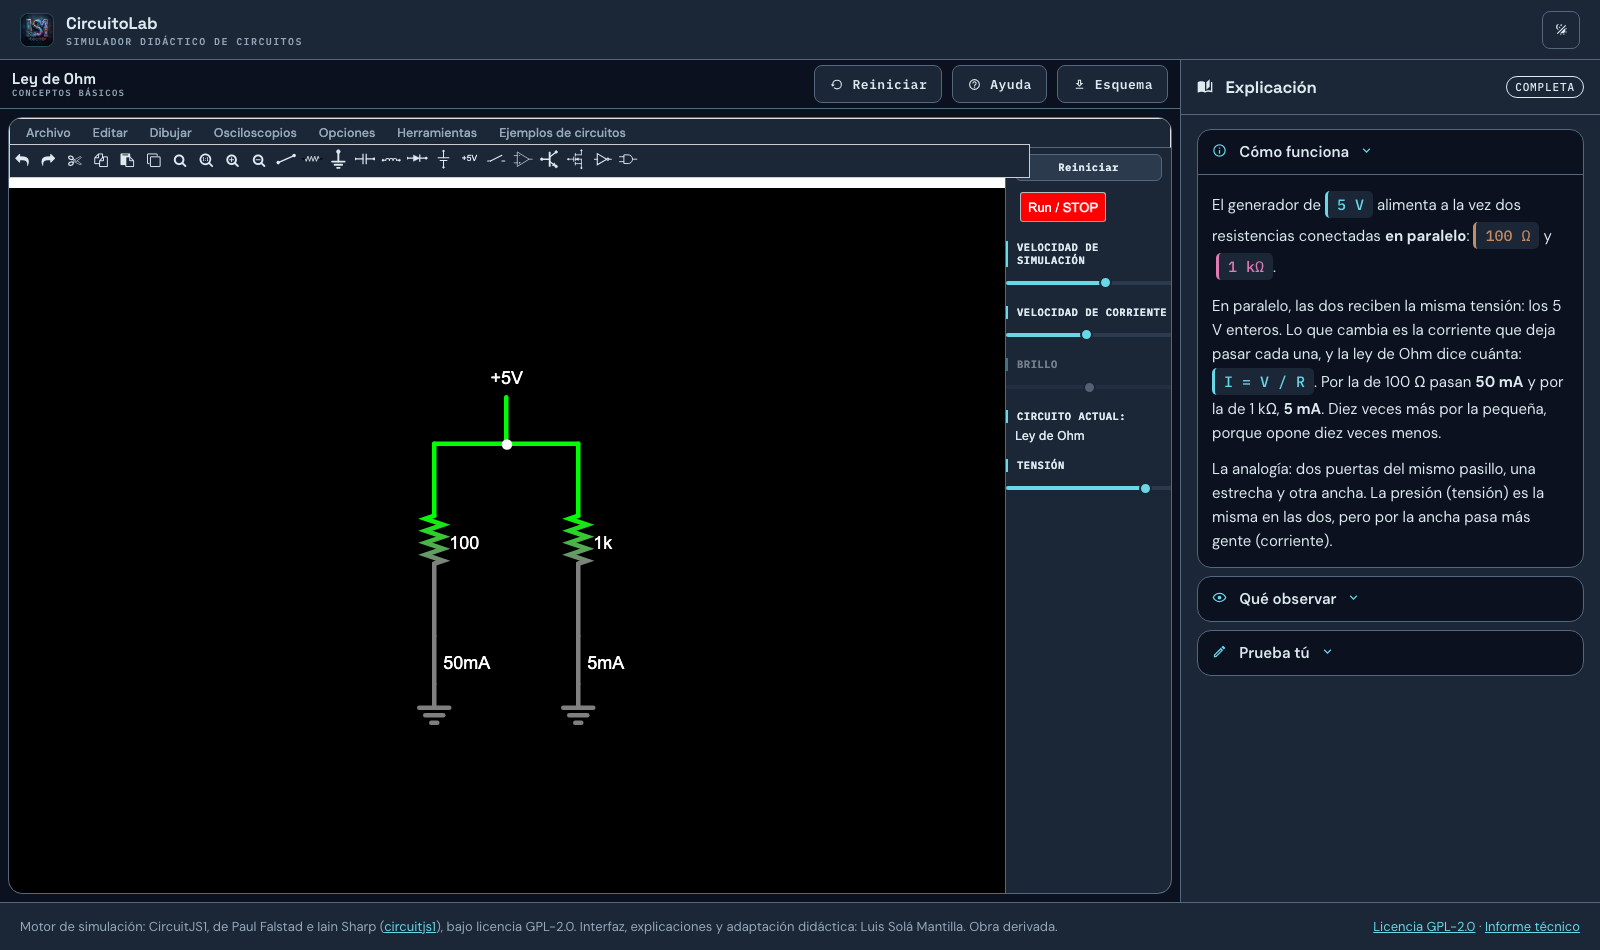
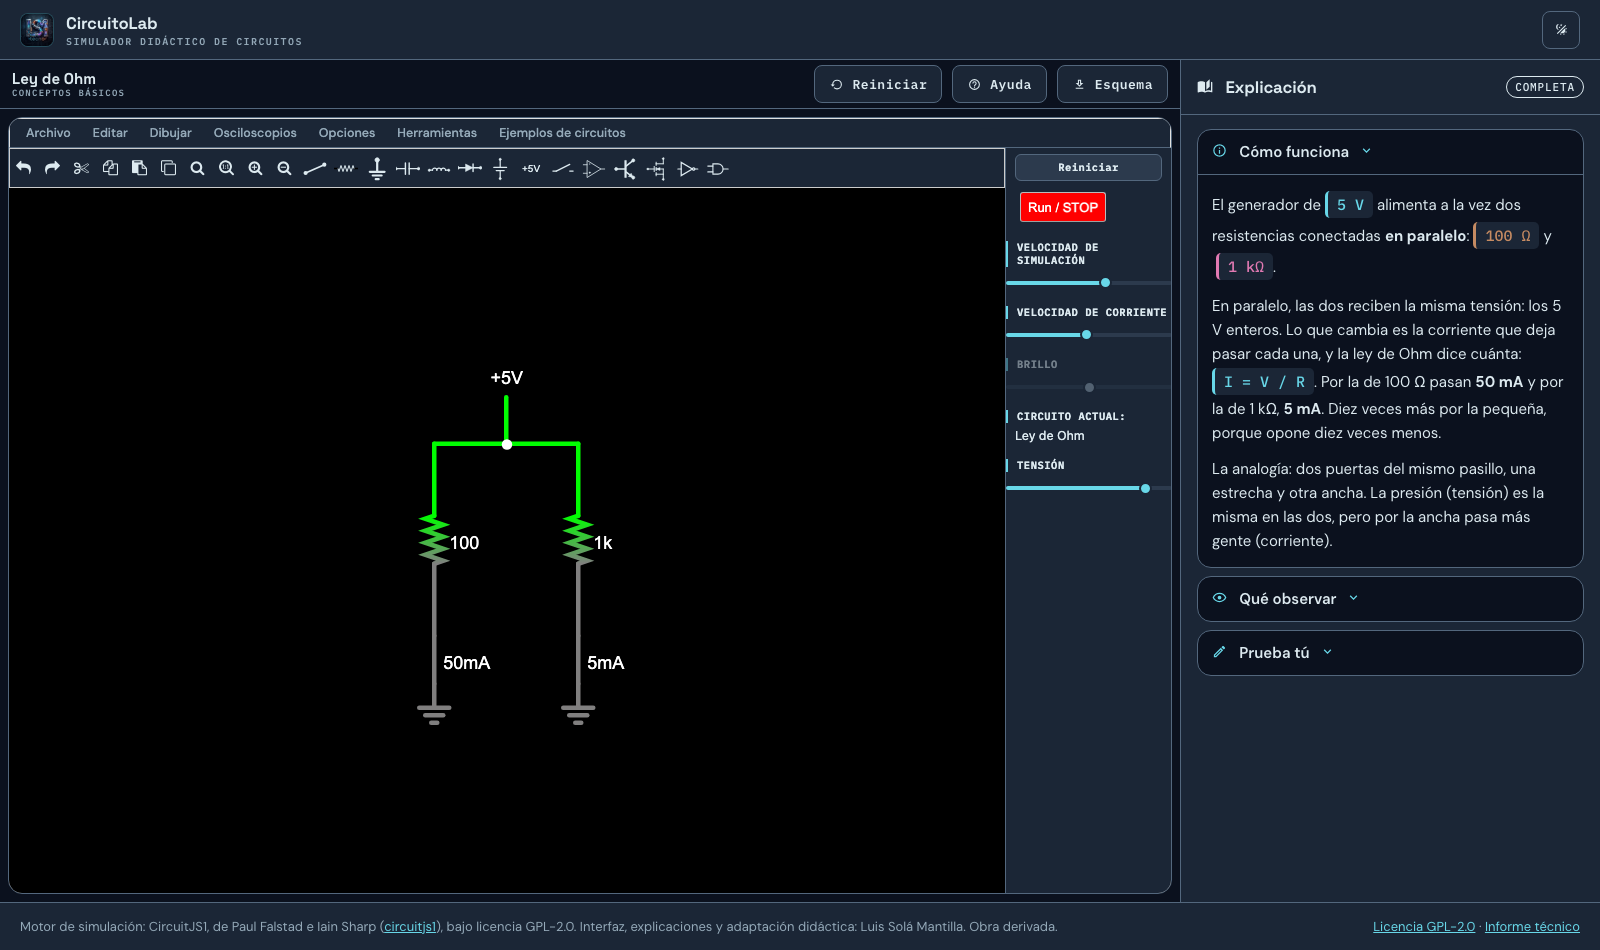
fix(ui): desplegables de la barra sin desplazar ni recortar
El zoom (0.85) y el overflow de la barra rompian los desplegables de las
herramientas: el zoom desplaza la posicion de los hijos absolutos y el overflow
los recortaba. Se quitan los dos; el hueco se gana reduciendo los iconos
(27 px y 22 px los diez primeros), que ahora caben sin scroll.

Changed region(s): [[0.0, 0.1526, 0.625, 0.2137], [0.625, 0.1526, 0.6562, 0.1832]]

diff --git a/assets/js/app.js b/assets/js/app.js
@@ -446,27 +446,28 @@ function estilizarMotor() {
     .cl-barra-motor {
       background: rgb(${fondo}) !important;
       max-width: 100% !important;
-      overflow-x: auto !important;
-      overflow-y: hidden !important;
-      scrollbar-width: thin !important;
+      /* SIN overflow: recortaba los desplegables de las herramientas (salían
+         cortados y desplazados). Los iconos ya caben sin scroll. */
+      overflow: visible !important;
     }
     .cl-barra-motor * { color: rgb(${fg}) !important; }
     /* Iconos de la barra: el motor los dibuja a 36x35 y no caben (854 px de
        contenido en ~656 de hueco). Se reducen; los 10 primeros -edición y
        zoom, que no necesitan tanto- más que el resto. */
     .cl-barra-motor > span {
-      width: 30px !important;
-      height: 30px !important;
-      font-size: 21px !important;
+      width: 27px !important;
+      height: 27px !important;
+      font-size: 19px !important;
     }
     .cl-barra-motor > span:nth-child(-n+10) {
-      width: 24px !important;
-      height: 24px !important;
-      font-size: 16px !important;
+      width: 22px !important;
+      height: 22px !important;
+      font-size: 15px !important;
     }
-    /* aun con los iconos reducidos no cabia: un zoom suave (0.88) cierra los
-       ~86 px que faltaban sin dejar ningun icono fuera */
-    .cl-barra-motor { zoom: 0.85; }
+    /* OJO: aqui habia un zoom para hacer sitio. NO se puede usar: los
+       desplegables de la paleta son hijos absolutos de esta barra y el zoom
+       desplaza su posicion (salian a la izquierda y no se podian pulsar).
+       El hueco se gana reduciendo los iconos, no escalando la barra. */
     /* El rotulo "Modo: ..." que el motor escribe a la derecha de los iconos va
        con el mismo tamano que el resto y empuja la barra. Se reduce y se le
        limita el ancho para que nunca desborde. */
